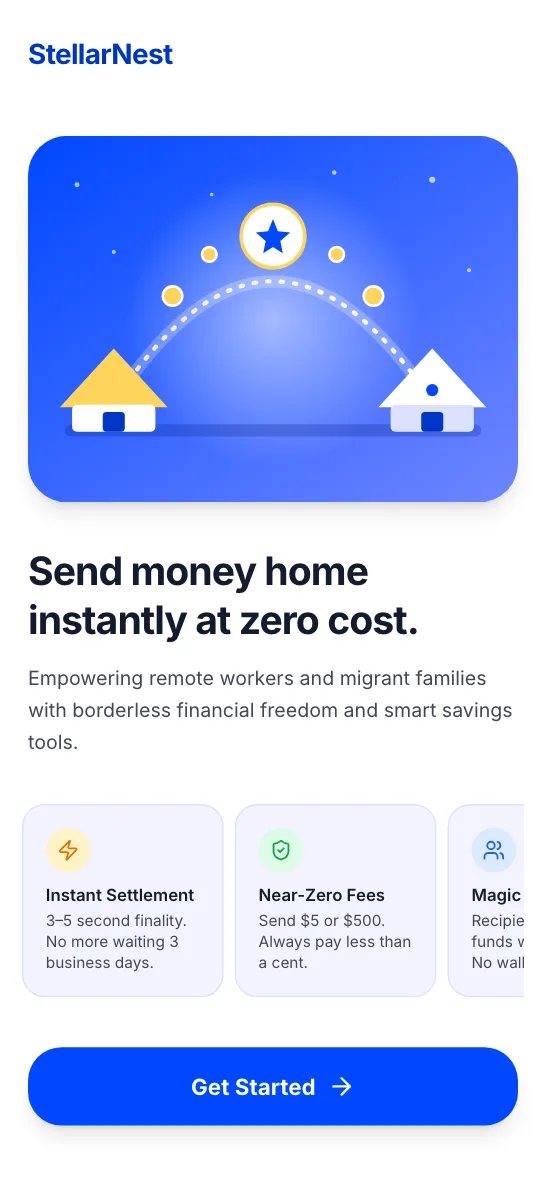
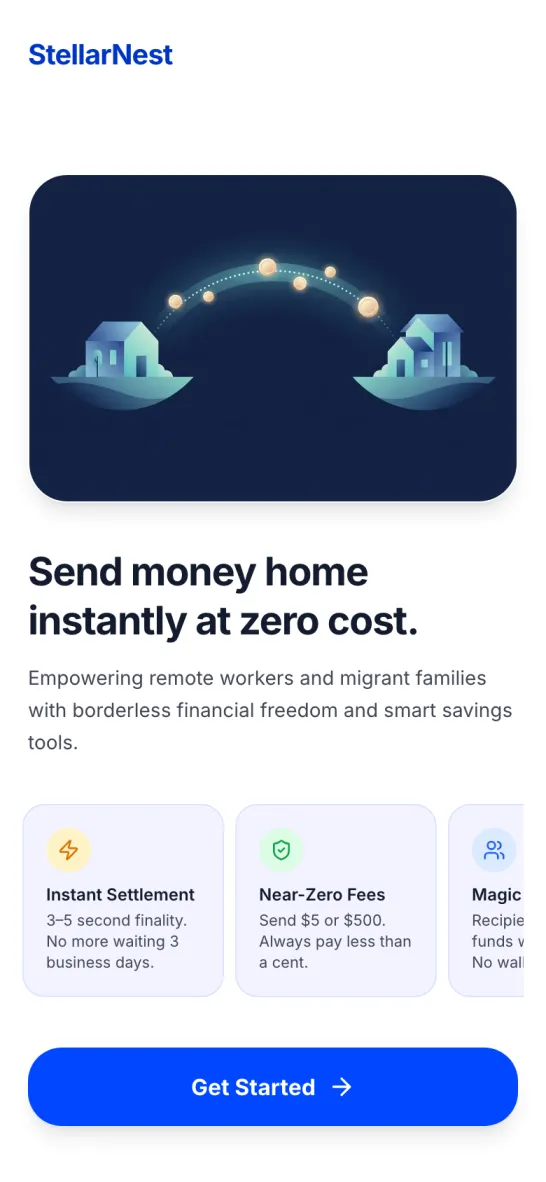
feat(landing): swap hero illustration for generated WebP image

diff --git a/src/pages/Landing.tsx b/src/pages/Landing.tsx
@@ -1,5 +1,5 @@
 import { useNavigate } from 'react-router-dom';
-import heroIllustration from '../assets/hero-illustration.svg';
+import heroIllustration from '../assets/hero-illustration.webp';
 import { ArrowRight, ShieldCheck, Zap, Users } from 'lucide-react';
 
 const FEATURES = [
@@ -42,10 +42,11 @@ export default function Landing() {
       <div className="flex-1 flex flex-col justify-end px-5 pb-10 max-w-lg mx-auto w-full">
         <img
           src={heroIllustration}
-          alt="Two homes in different countries linked by a glowing payment arc"
-          width={400}
-          height={300}
-          className="w-full max-w-sm mx-auto mb-8 rounded-[28px] shadow-lg"
+          alt="Two small houses in different countries linked by a dotted arc of coins"
+          width={1200}
+          height={805}
+          decoding="async"
+          className="w-full max-w-sm h-auto mx-auto mb-8 rounded-[28px] shadow-lg border border-white/10"
         />
         <h1 className="text-[28px] font-bold leading-tight tracking-tight text-on-background mb-3">
           Send money home<br />instantly at zero cost.
